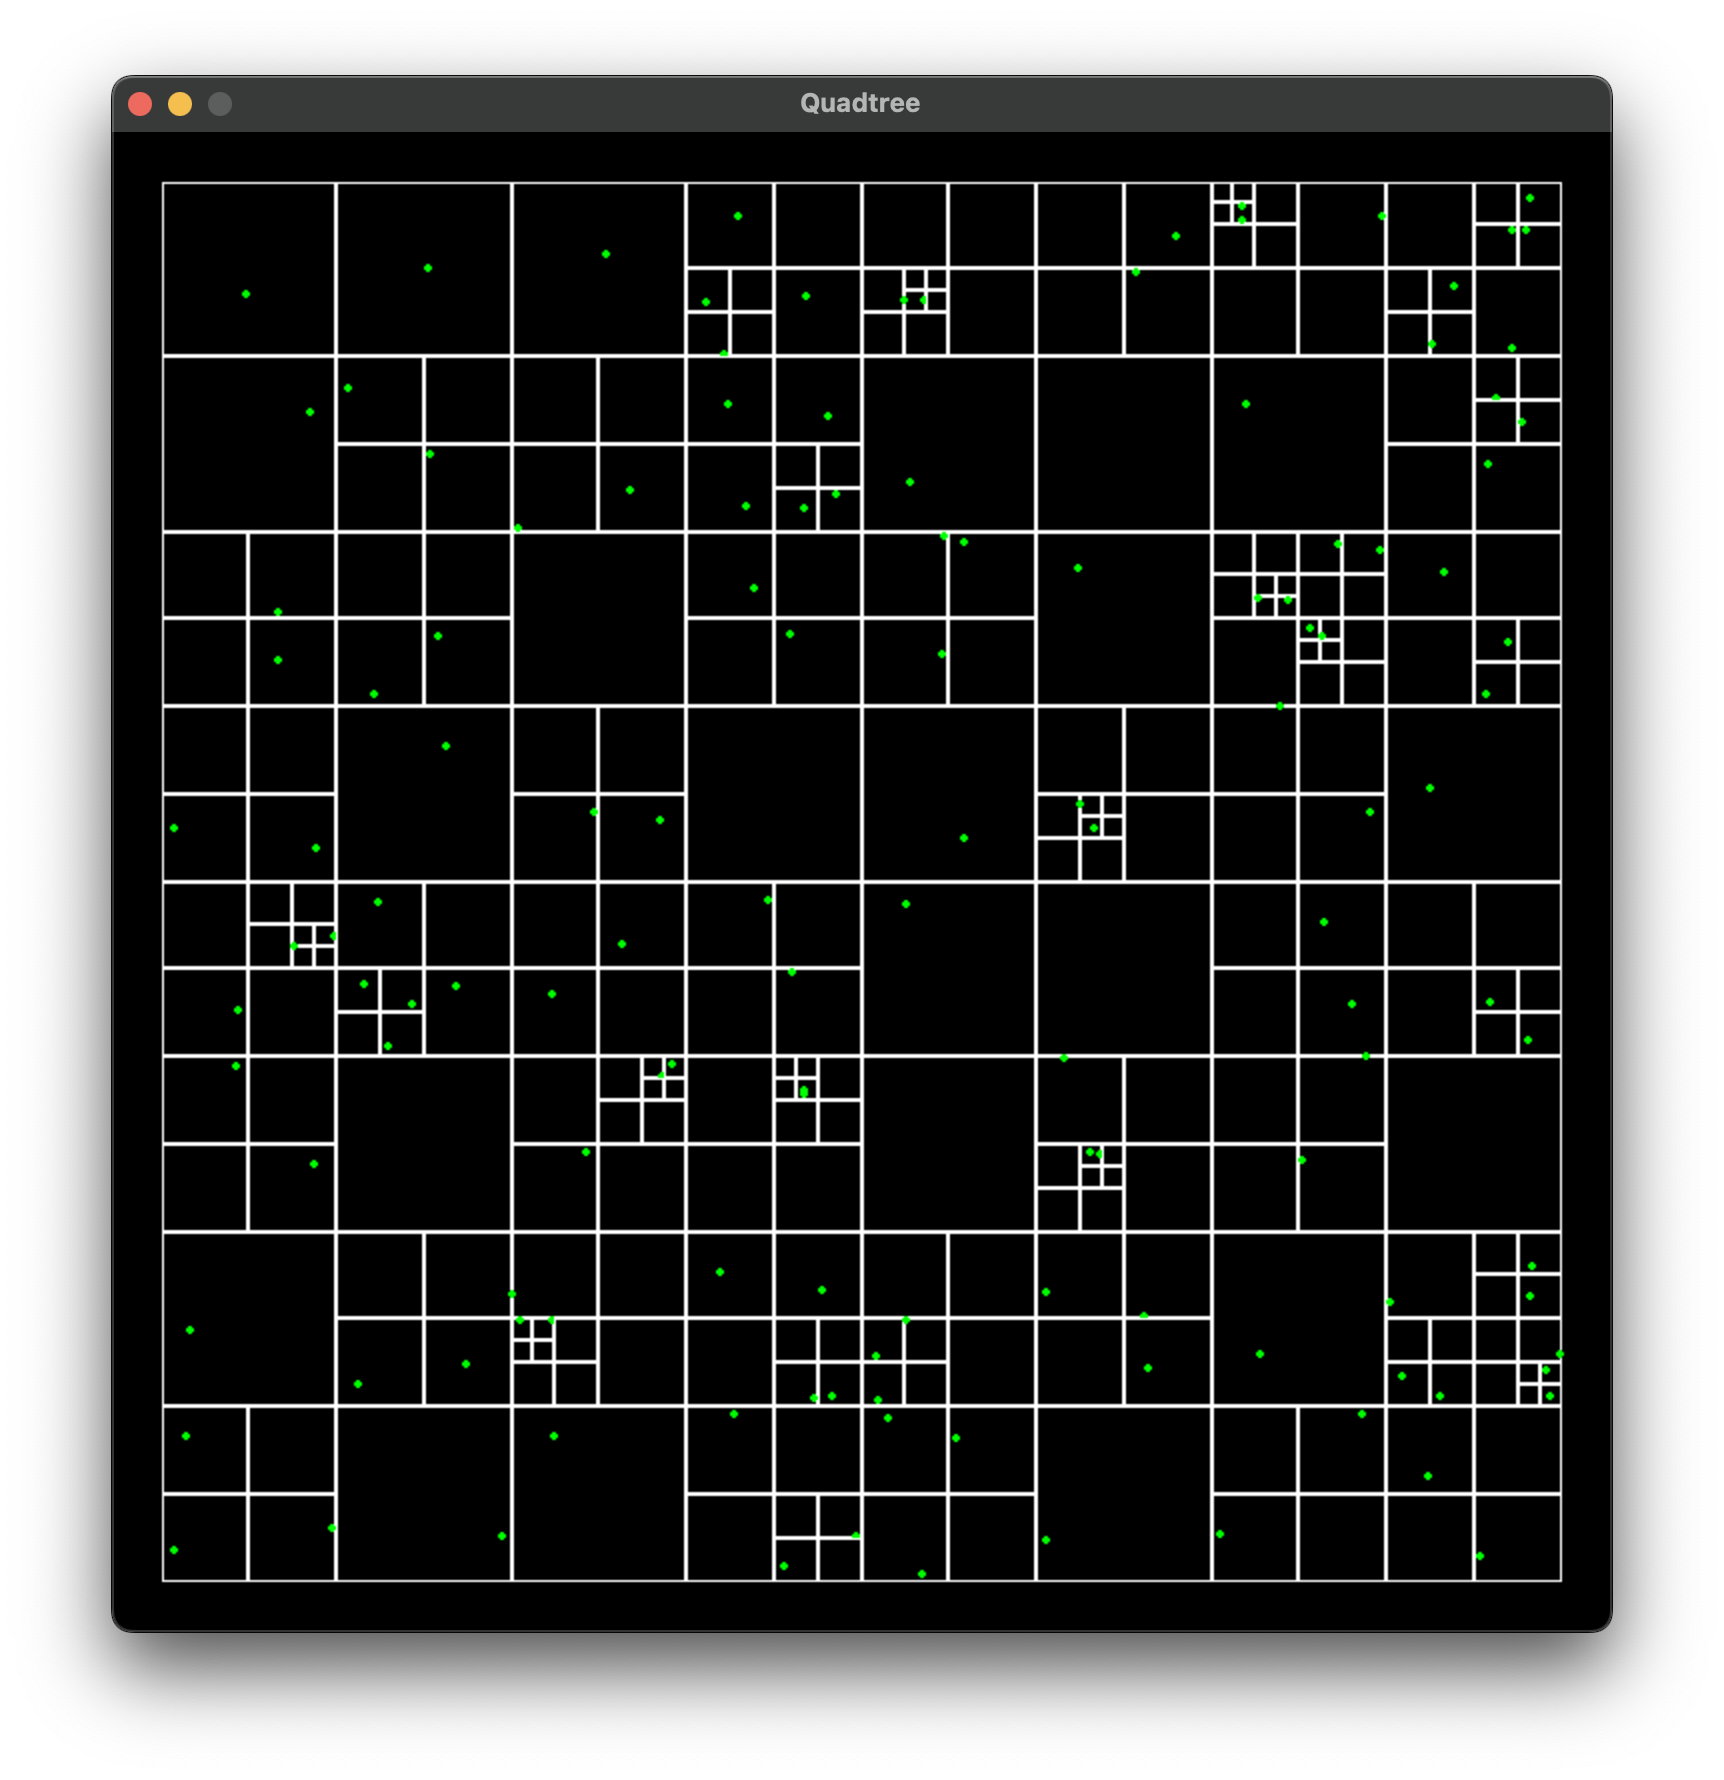
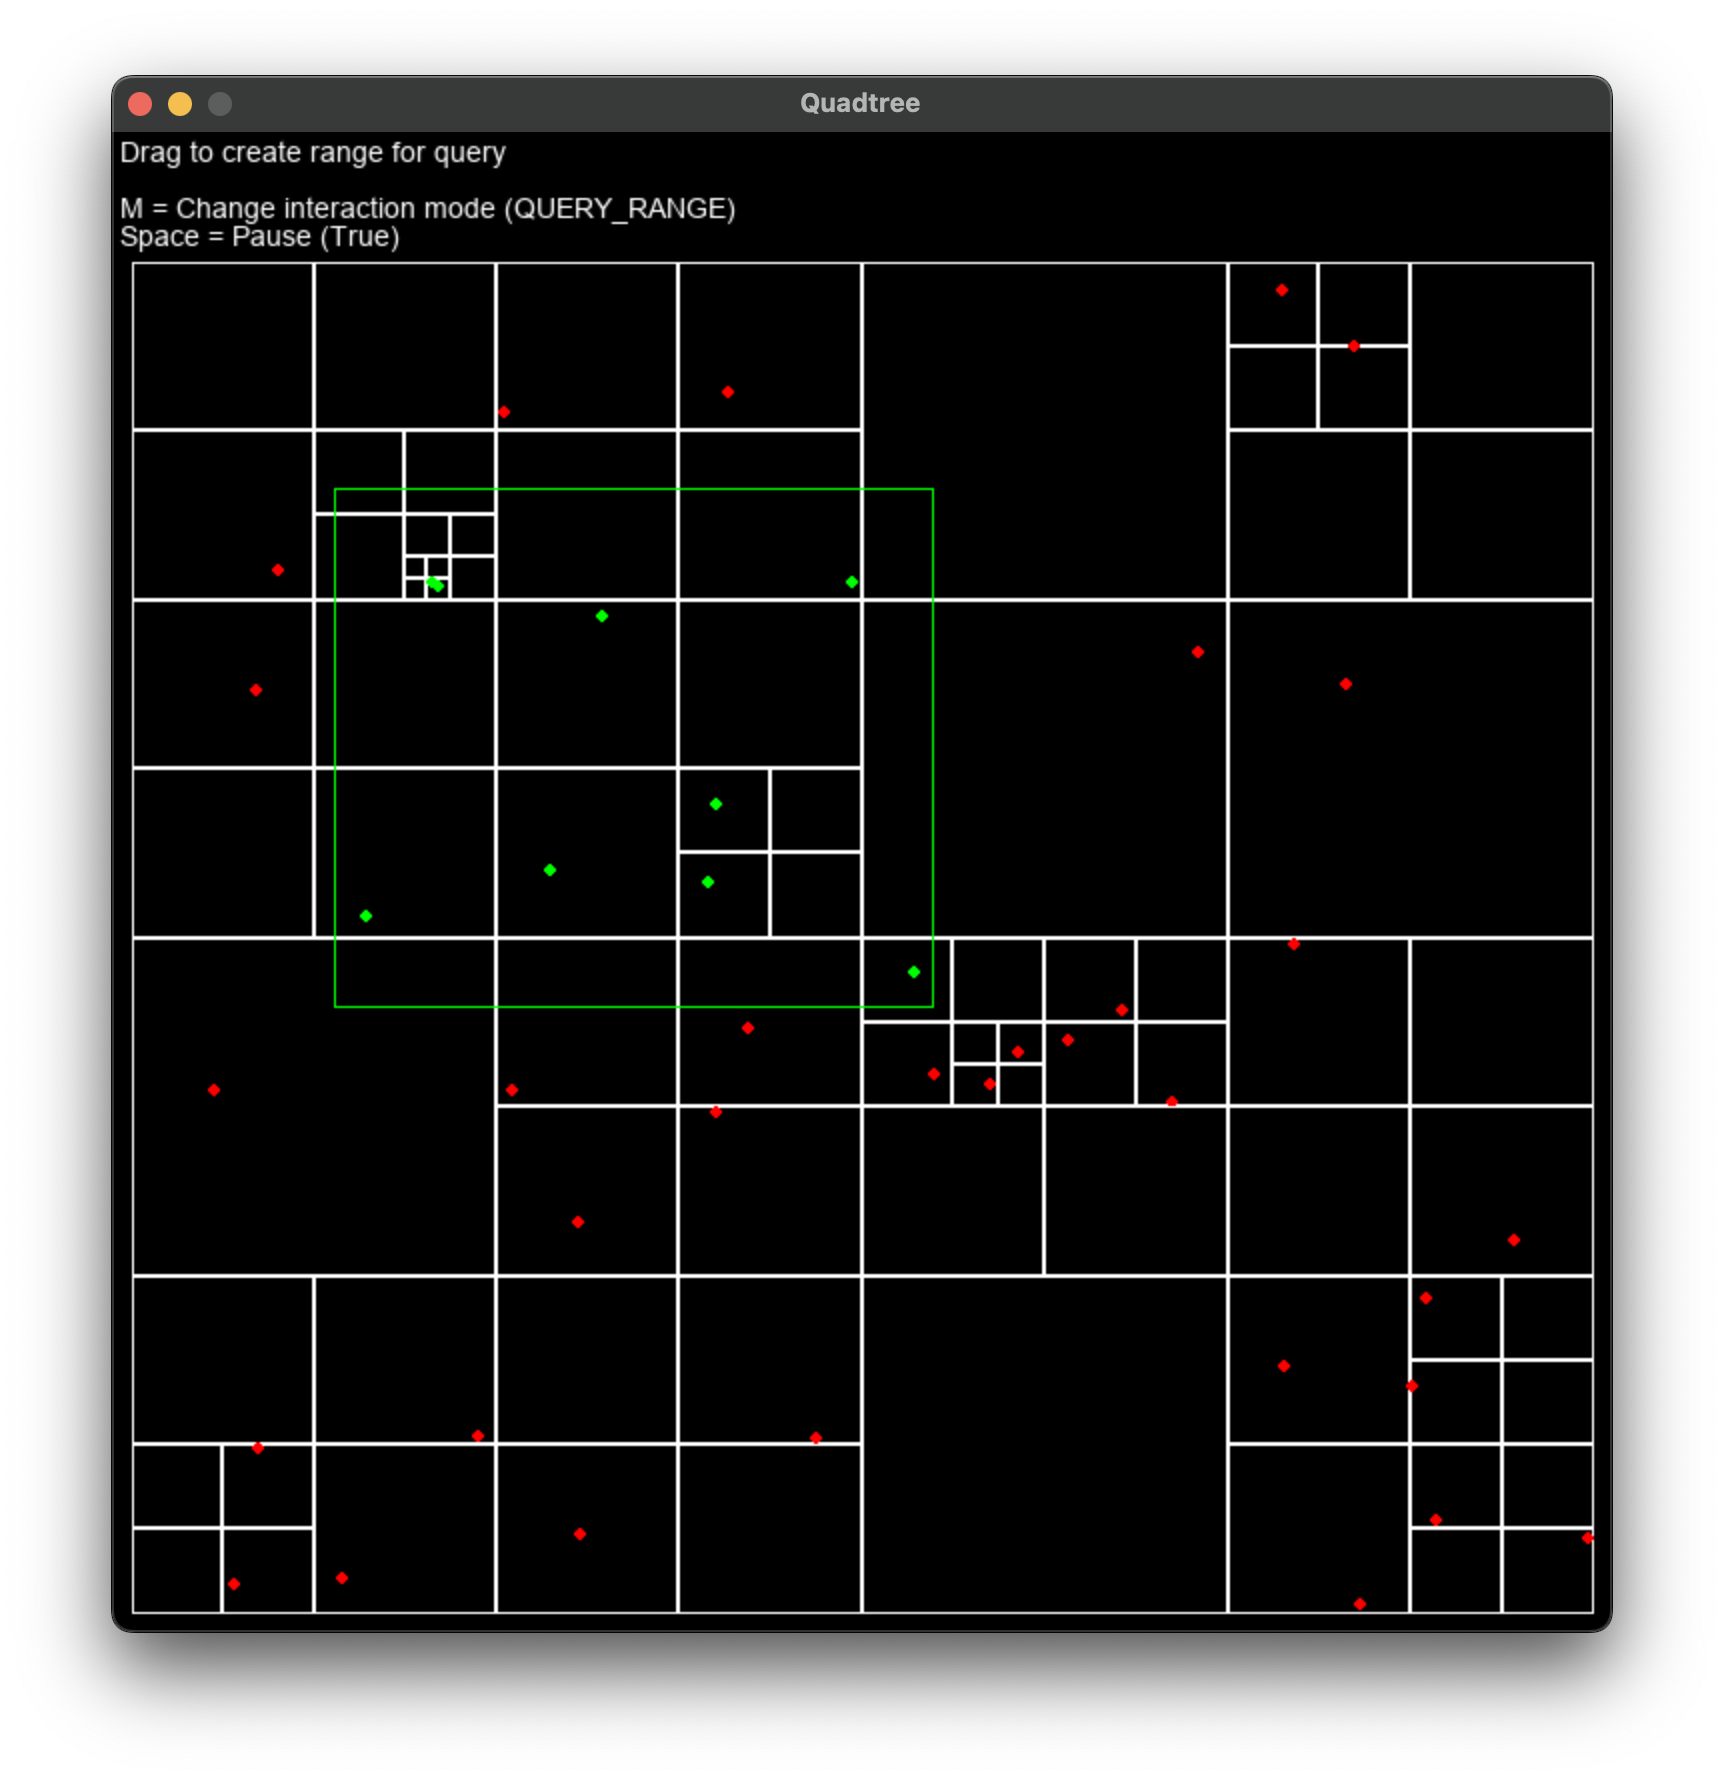
Implemented range query and refactored rendering

Changed region(s): [[0.0615, 0.0618, 0.9223, 0.927], [0.4919, 0.8961, 0.5226, 0.927]]

diff --git a/src/main.py b/src/main.py
@@ -6,10 +6,10 @@ from pygame.locals import (
 	MOUSEBUTTONUP, MOUSEBUTTONDOWN,
 	MOUSEMOTION, K_ESCAPE, K_SPACE, K_m)
 
-from config import WINDOW_TITLE, WINDOW_SIZE, QT_SIDES, GREEN
+from config import WINDOW_TITLE, WINDOW_SIZE, QT_SIDES
 from quadtree import Quadtree
 from aabb import AABB
-from quadtree_renderer import QuadtreeRenderer
+from renderer import Renderer
 from entity import Entity
 from interaction_mode import InteractionMode
 
@@ -21,7 +21,7 @@ def main():
 	screen = pygame.display.set_mode(WINDOW_SIZE)
 
 	qt = Quadtree(AABB.from_sides(*QT_SIDES))
-	qt_renderer = QuadtreeRenderer(qt, WINDOW_SIZE)
+	renderer = Renderer(screen)
 
 	entities = []
 
@@ -40,19 +40,20 @@ def main():
 				paused = not paused
 			elif event.key == K_m:
 				mode = mode.next()
-				query_range_pnts = [None,None]
+
 		elif event.type == MOUSEBUTTONDOWN:
 			if mode == InteractionMode.ADD_ENTITY:
-				if not paused and qt.boundary.contains(event.pos):
+				if qt.boundary.contains(event.pos):
 					entities.append(Entity(event.pos, qt.boundary))
 			elif mode == InteractionMode.QUERY_RANGE:
 				if not drag:
-					query_range_pnts[0] = event.pos
-					query_range_pnts[1] = None
+					query_range_pnts = [event.pos,None]
 			drag = True
+
 		elif event.type == MOUSEMOTION:
 			if mode == InteractionMode.QUERY_RANGE and drag:
 				query_range_pnts[1] = event.pos
+
 		elif event.type == MOUSEBUTTONUP:
 			drag = False
 
@@ -63,18 +64,20 @@ def main():
 			if not paused:
 				e.update(dt)
 			qt.insert(e)
-		qt_renderer(screen)
+
+		renderer.clear()
+		renderer.draw_quadtree(qt)
 
 		if all(query_range_pnts):
-			lt = np.min(query_range_pnts, axis=0)
-			rb = np.max(query_range_pnts, axis=0)
+			left,top = np.min(query_range_pnts, axis=0)
+			right,bottom = np.max(query_range_pnts, axis=0)
 
-			r = AABB.from_sides(lt[0],rb[0],lt[1],rb[1])
-			pygame.draw.rect(screen, GREEN, pygame.Rect(r.left,r.top,r.w,r.h), 1)
-
+			r = AABB.from_sides(left,right,top,bottom)
 			in_range = qt.query_range(r)
-			for e in in_range:
-				pygame.draw.circle(screen, GREEN, e.pos, 3)
+
+			renderer.draw_range_query(r, in_range)
+
+		renderer.draw_info(paused, mode)
 
 		pygame.display.flip()
 

diff --git a/src/renderer.py b/src/renderer.py
@@ -1,0 +1,65 @@
+import pygame
+
+from config import WHITE, RED, BLACK, GREEN
+from interaction_mode import InteractionMode
+
+class Renderer:
+	BOUNDARY_THICKNESS = 1
+	BOUNDARY_COLOR = WHITE
+	POINT_RADIUS = 3
+	POINT_COLOR = RED
+
+	BOUNDARY_THICKNESS = 1
+	RQ_BOUNDARY_COLOR = GREEN
+	RQ_POINT_COLOR = GREEN
+
+	FONT_SIZE = 14
+
+	def __init__(self, surface):
+		self.surface = surface
+		self.font = pygame.font.SysFont('arial', Renderer.FONT_SIZE)
+
+	def clear(self):
+		'Draw the screen black'
+		self.surface.fill(BLACK)
+
+	def draw_quadtree(self, quadtree):
+		'Recursively draw qt and entities'
+		b = quadtree.boundary
+		r = pygame.Rect(b.left,b.top,b.w,b.h)
+		pygame.draw.rect(self.surface, Renderer.BOUNDARY_COLOR, 
+			r, Renderer.BOUNDARY_THICKNESS)
+		
+		if quadtree.divided:
+			self.draw_quadtree(quadtree.tl)
+			self.draw_quadtree(quadtree.tr)
+			self.draw_quadtree(quadtree.bl)
+			self.draw_quadtree(quadtree.br)
+
+		for e in quadtree.entities:
+			pygame.draw.circle(self.surface, Renderer.POINT_COLOR, 
+				e.pos, Renderer.POINT_RADIUS)
+
+	def draw_range_query(self, r, in_range):
+		'Draw range query boundary and entities in range'
+		pygame.draw.rect(self.surface, GREEN, 
+			pygame.Rect(r.left,r.top,r.w,r.h), Renderer.BOUNDARY_THICKNESS)
+		for e in in_range:
+			pygame.draw.circle(self.surface, Renderer.RQ_POINT_COLOR, 
+				e.pos, Renderer.POINT_RADIUS)
+
+	def draw_info(self, paused, interaction_mode):
+		'Draw simulation info'
+		info = []
+		if interaction_mode == InteractionMode.ADD_ENTITY:
+			info.append('Click to add points')
+		elif interaction_mode == InteractionMode.QUERY_RANGE:
+			info.append('Drag to create range for query')
+
+		info.append('')
+		info.append(f'M = Change interaction mode ({interaction_mode.name})')
+		info.append(f'Space = Pause ({paused})')
+
+		for i,s in enumerate(info):
+			self.surface.blit(self.font.render(s, True, WHITE), 
+				(4,2+i*Renderer.FONT_SIZE))

diff --git a/src/quadtree.py b/src/quadtree.py
@@ -67,18 +67,18 @@ class Quadtree:
 
 	def query_range(self, r):
 		in_range = []
-		self.query_range_helper(r, in_range)
+		self._query_range_helper(r, in_range)
 		return in_range
 
-	def query_range_helper(self, r, in_range):
+	def _query_range_helper(self, r, in_range):
 		if not self.boundary.intersects(r):
 			return
 
 		if self.divided:
-			self.tl.query_range_helper(r, in_range)
-			self.tr.query_range_helper(r, in_range)
-			self.bl.query_range_helper(r, in_range)
-			self.br.query_range_helper(r, in_range)
+			self.tl._query_range_helper(r, in_range)
+			self.tr._query_range_helper(r, in_range)
+			self.bl._query_range_helper(r, in_range)
+			self.br._query_range_helper(r, in_range)
 		else:
 			for e in self.entities:
 				if r.contains(e.pos):

diff --git a/src/entity.py b/src/entity.py
@@ -2,13 +2,15 @@ import numpy as np
 
 class Entity:
 
+	SPEED_RANGE = (50,200)
+
 	def __init__(self, pos, boundary):
 		self.pos = np.array(pos, dtype='float')
 		self.boundary = boundary
 
 		# random velocity vector
 		self.v = np.random.uniform(-1,1,2)
-		speed = np.random.uniform(50,200) # px/sec
+		speed = np.random.uniform(*Entity.SPEED_RANGE) # px/sec
 		self.v *= speed / np.linalg.norm(self.v)
 
 	def update(self, dt):

diff --git a/src/config.py b/src/config.py
@@ -2,10 +2,10 @@ WINDOW_TITLE = 'Quadtree'
 WINDOW_SIZE = (750,750)
 
 # Centered in window
-BORDER_WIDTH = 25
+BORDER_WIDTH = (10,10,65,10)
 # left, right, top, bottom
-QT_SIDES = (BORDER_WIDTH, WINDOW_SIZE[0]-BORDER_WIDTH,
-			BORDER_WIDTH, WINDOW_SIZE[1]-BORDER_WIDTH)
+QT_SIDES = (BORDER_WIDTH[0], WINDOW_SIZE[0]-BORDER_WIDTH[1],
+			BORDER_WIDTH[2], WINDOW_SIZE[1]-BORDER_WIDTH[3])
 
 RED   = (255,0,0)
 GREEN = (0,255,0)
